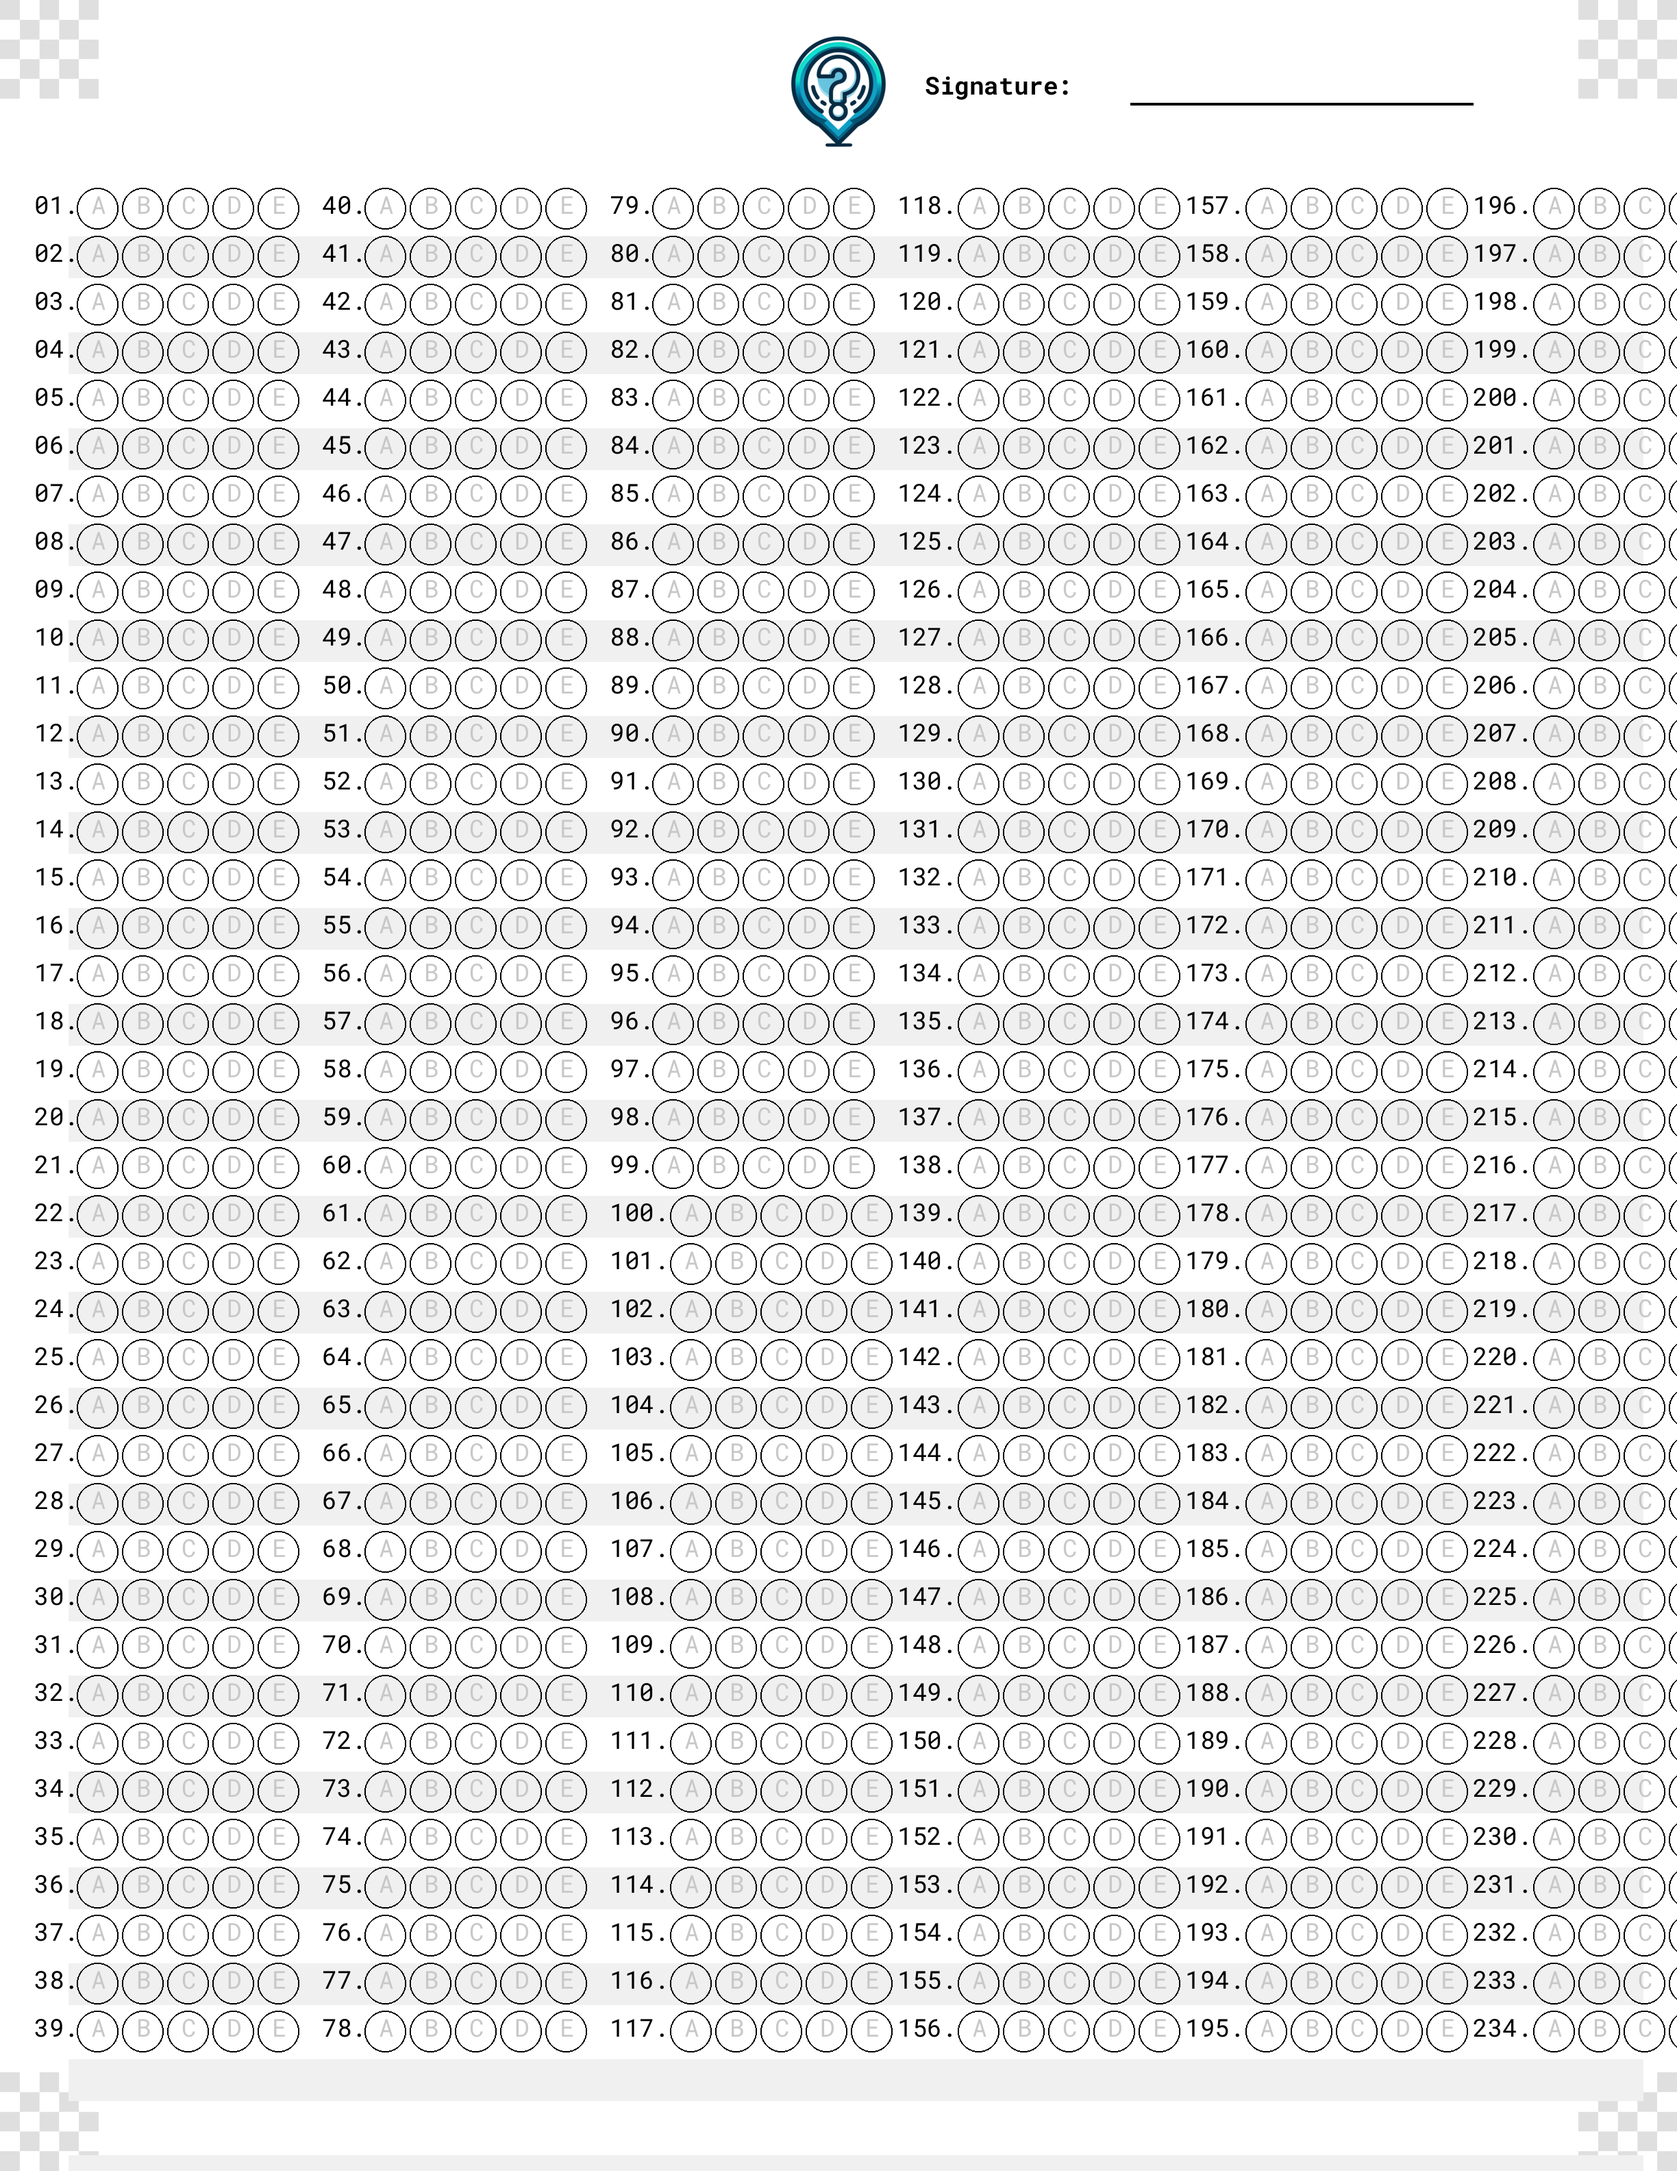
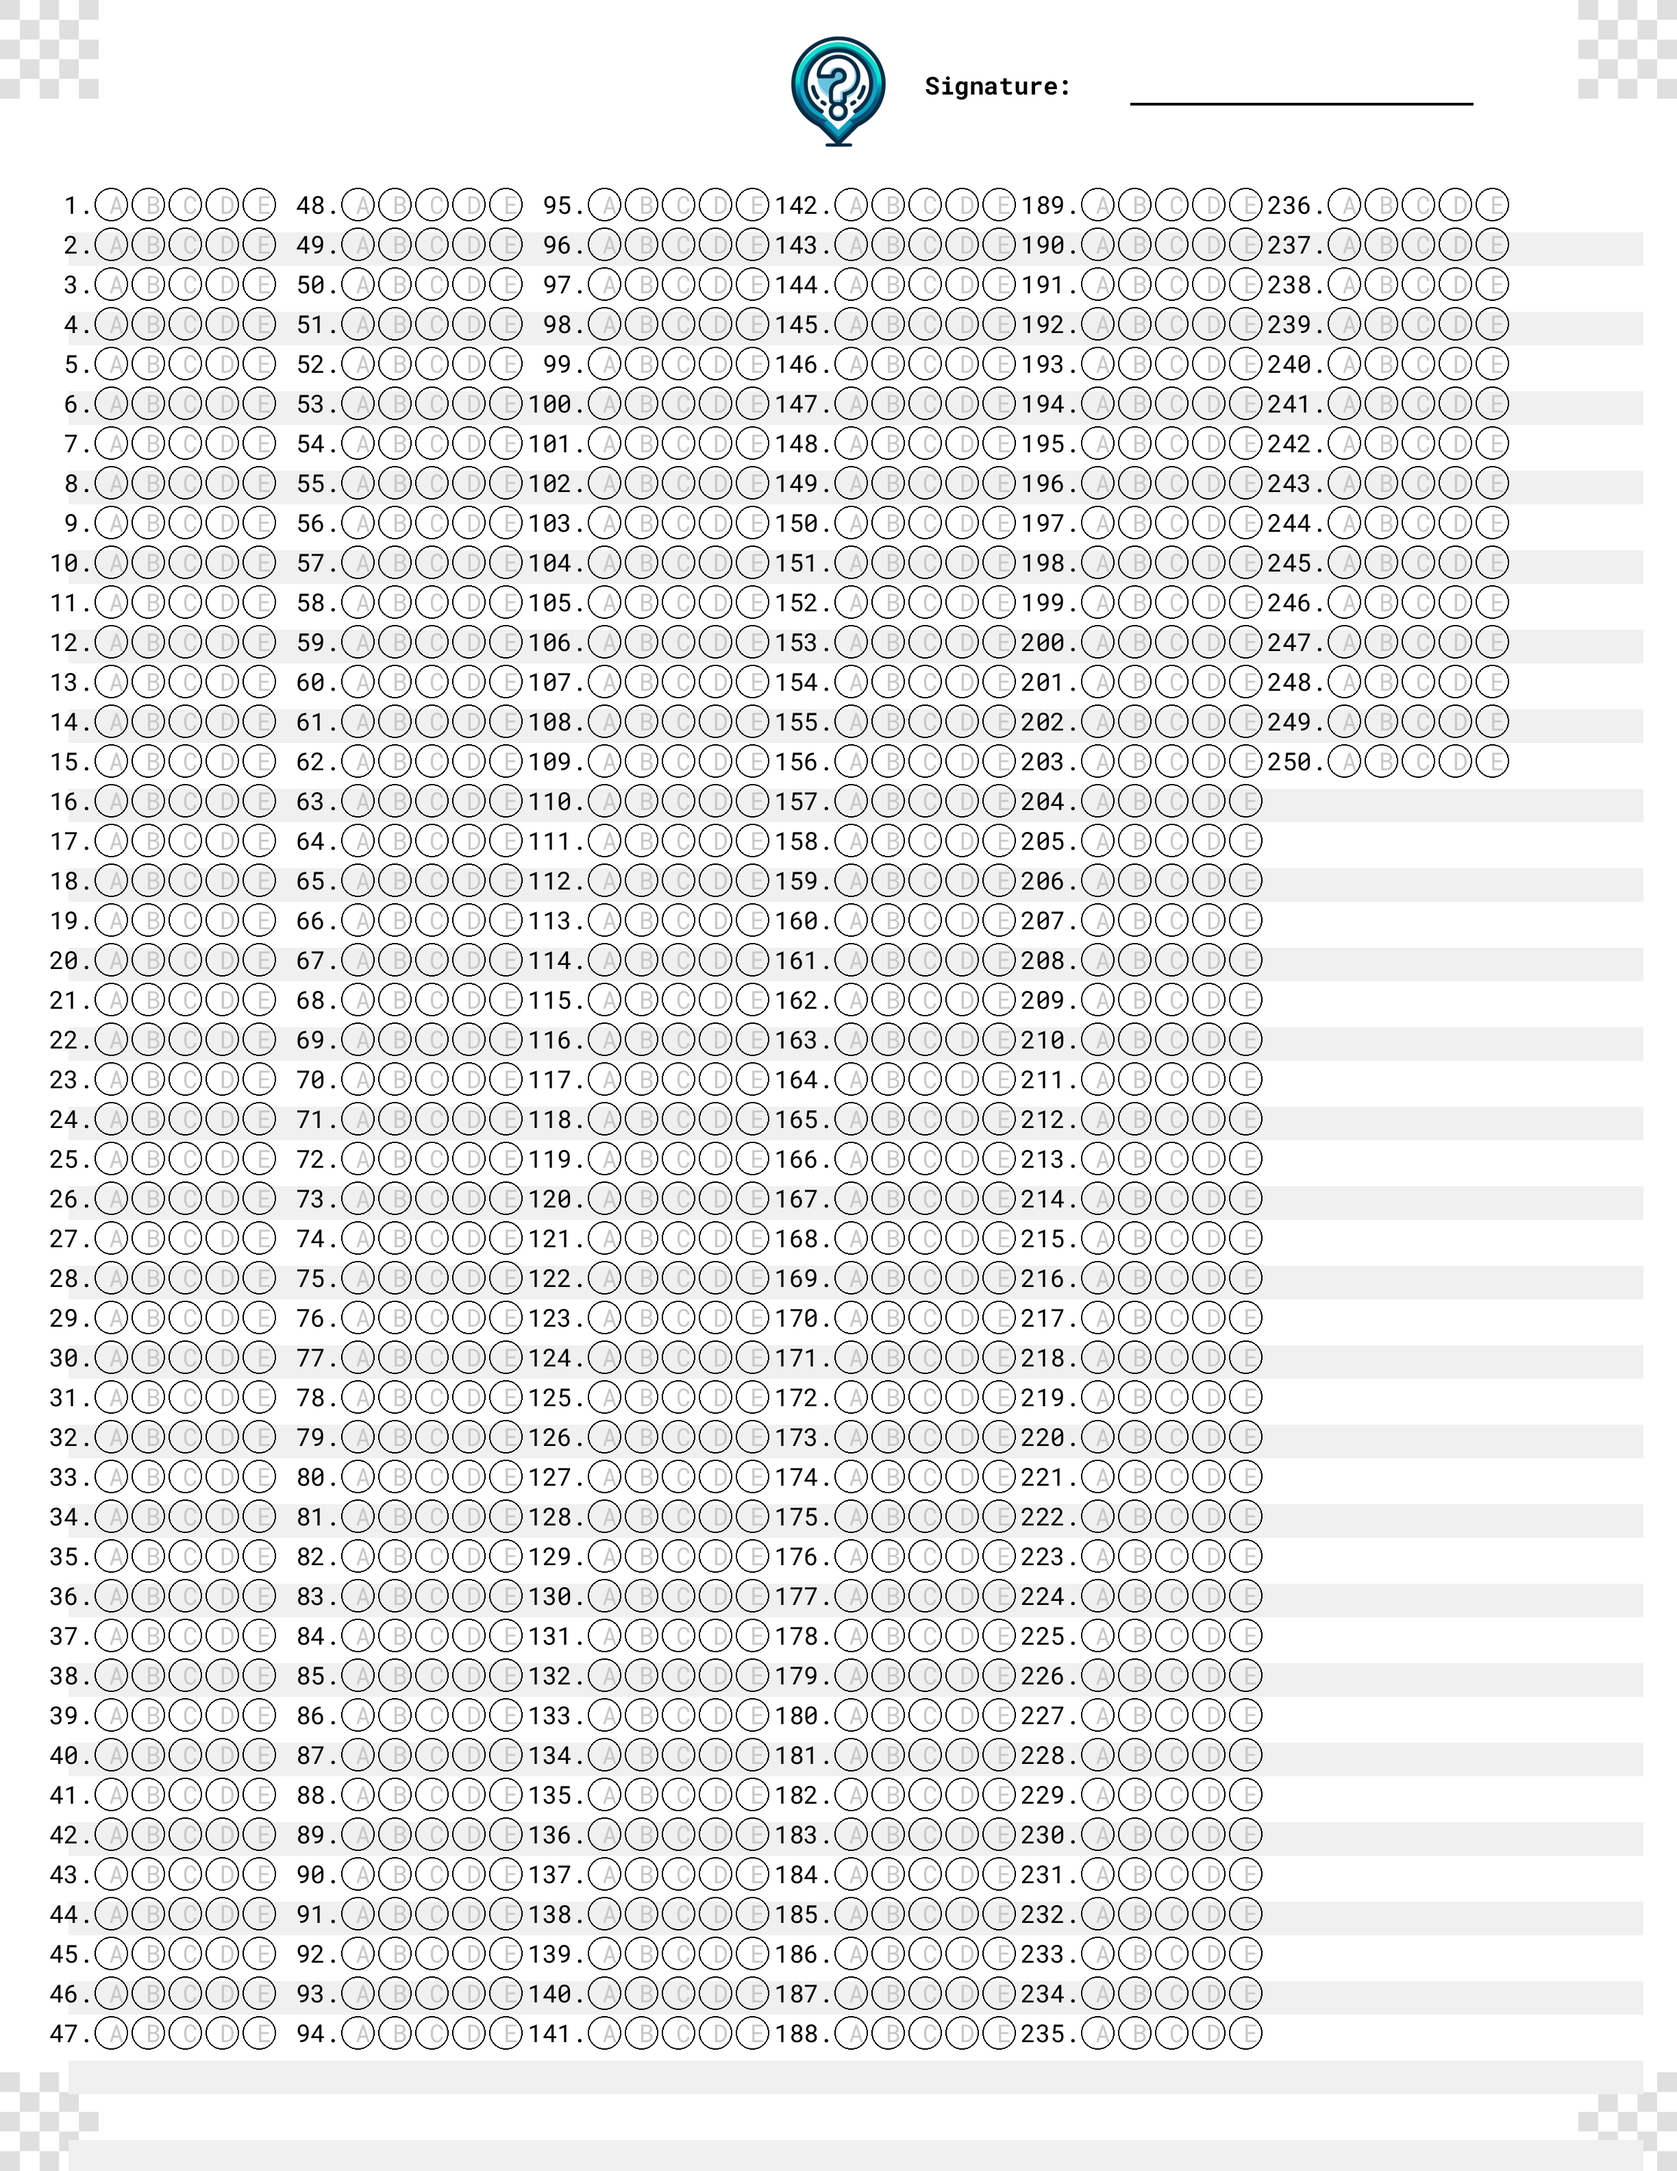
Fixed misaligned numbers in answer sheet output

Changed region(s): [[0.031, 0.0938, 0.9935, 0.9375]]

diff --git a/answer_sheets/main.py b/answer_sheets/main.py
@@ -352,7 +352,8 @@ class Pictron:
 
         while n <= self.num_questions:
             if i % self.num_ans_options == 0:
-                label = f"{n:02}."
+                label = f"{n:>3}."
+
             
                 # dynamically adjust spacing based on the length of the question number
                 label_width = len(label) * (self.font_size_adj // 2)  # Estimate label width
@@ -521,7 +522,7 @@ if __name__ == "__main__":
             "dpi": 288,
             "font_size": 13,
             "bubble_shape": "circle",
-            "bubble_size": 15,
+            "bubble_size": 12,
             "bubble_ratio": 1,
             "font_path": "./assets/fonts/RobotoMono-Regular.ttf",
             "font_bold": "./assets/fonts/RobotoMono-Bold.ttf",
